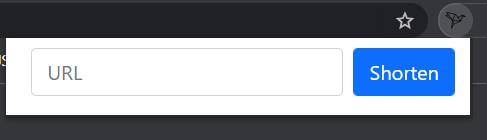
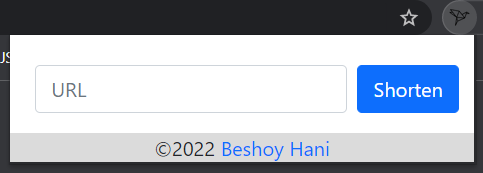
UI Improvements

diff --git a/index.html b/index.html
@@ -6,46 +6,57 @@
     <meta charset="utf-8">
     <link href="https://cdn.jsdelivr.net/npm/bootstrap@5.1.3/dist/css/bootstrap.min.css" rel="stylesheet">
     <link rel="icon" type="image/x-icon" href="./images/logo.ico">
-    <link rel="stylesheet" href="styls.css"/>
+    <link rel="stylesheet" href="styls.css" />
     <link rel="stylesheet" href="https://cdnjs.cloudflare.com/ajax/libs/font-awesome/6.0.0-beta2/css/all.min.css"
         integrity="sha512-YWzhKL2whUzgiheMoBFwW8CKV4qpHQAEuvilg9FAn5VJUDwKZZxkJNuGM4XkWuk94WCrrwslk8yWNGmY1EduTA=="
         crossorigin="anonymous" referrerpolicy="no-referrer" />
 
 </head>
 
-<body class="container py-2">
+<body>
 
-    <div class="container" id="toast_msg" hidden
-         style="background-color: gray; color: white; width: fit-content; border-radius: 5px;">
-        Copied
-    </div>
+    <div class="container py-2">
 
-    <div class="my-2 d-flex justify-content-center">
-        <div class="loader" id="loading_bar" hidden></div>
-    </div>
-
-    <form class="form-inline d-flex">
-        <div class="form-group mx-2" style="width: 250px;">
-            <input type="url" class="form-control" id="url_input_field" placeholder="URL" autofocus>
+        <div class="container" id="toast_msg" hidden
+            style="background-color: gray; color: white; width: fit-content; border-radius: 5px;">
+            Copied
         </div>
-        <button id="submit_btn" type="submit" class="btn btn-primary mb-2">Shorten</button>
-    </form>
 
-    <div class="d-flex row justify-content-center">
-        <div class="d-flex justify-content-center">
-            <div id="new_url_input_field" hidden
-                style="display:block;text-overflow: ellipsis;width: 200px;overflow: hidden; white-space: nowrap;">
+        <div class="my-2 d-flex justify-content-center">
+            <div class="loader" id="loading_bar" hidden></div>
+        </div>
+
+        <form class="form-inline d-flex">
+            <div class="form-group mx-2" style="width: 250px;">
+                <input type="url" class="form-control" id="url_input_field" placeholder="URL" autofocus>
+            </div>
+            <button id="submit_btn" type="submit" class="btn btn-primary mb-2">Shorten</button>
+        </form>
+
+        <div class="d-flex row justify-content-center">
+            <div class="d-flex justify-content-center">
+                <div id="new_url_input_field" hidden
+                    style="display:block;text-overflow: ellipsis;width: 200px;overflow: hidden; white-space: nowrap;">
+                </div>
+
+                <button id="copy_btn" style="background-color: transparent; outline: none; border: none;" hidden>
+                    <i class="fa-regular fa-clone px-2"></i>
+                </button>
             </div>
 
-            <button id="copy_btn" style="background-color: transparent; outline: none; border: none;" hidden>
-                <i class="fa-regular fa-clone px-2"></i>
+            <button id="back_btn" class="py-2" style="background-color: transparent; outline: none; border: none;"
+                hidden>
+                <i class="fa-solid fa-circle-arrow-left"></i>
             </button>
         </div>
 
-        <button id="back_btn" class="py-2" style="background-color: transparent; outline: none; border: none;" hidden>
-            <i class="fa-solid fa-circle-arrow-left"></i>
-        </button>
     </div>
+    <footer class="bg-light text-center text-lg-start w-100">
+        <div class="text-center" style="background-color: rgba(217, 217, 217, 0.945);">
+            ©2022 
+            <a class="" href="https://github.com/BeshoyHani/" style="text-decoration: none; ">Beshoy Hani</a>
+        </div>
+    </footer>
 </body>
 <script src="script.js"></script>
 

diff --git a/README.md b/README.md
@@ -9,5 +9,5 @@ The extension uses [ShortMe API](https://github.com/BeshoyHani/Short.Me-API) to 
 
 ## Preview
 <img src="./images/screenshots/1.png">
-
+<img src="./images/screenshots/3.png">
 <img src="./images/screenshots/2.png">
